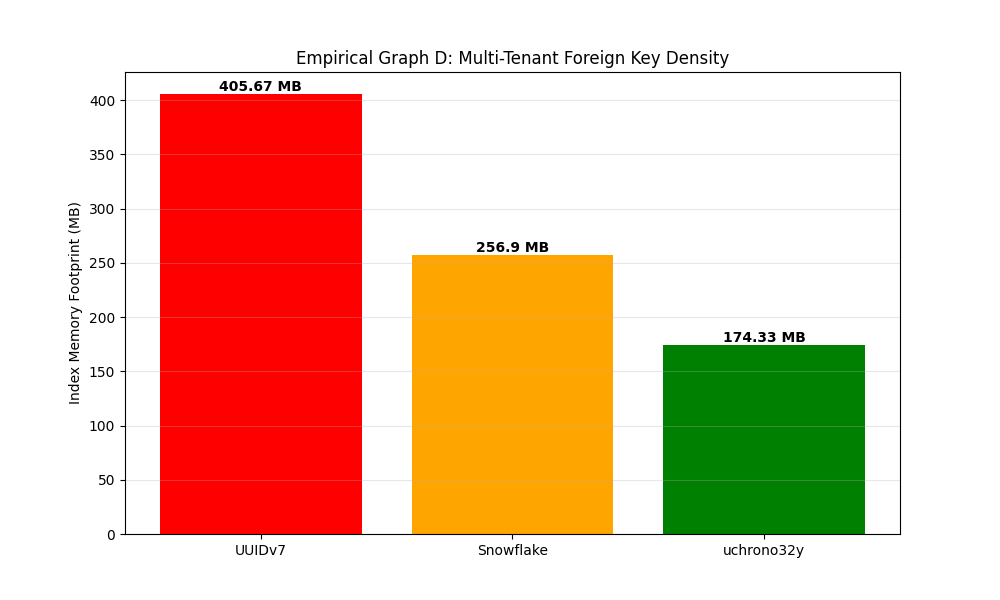
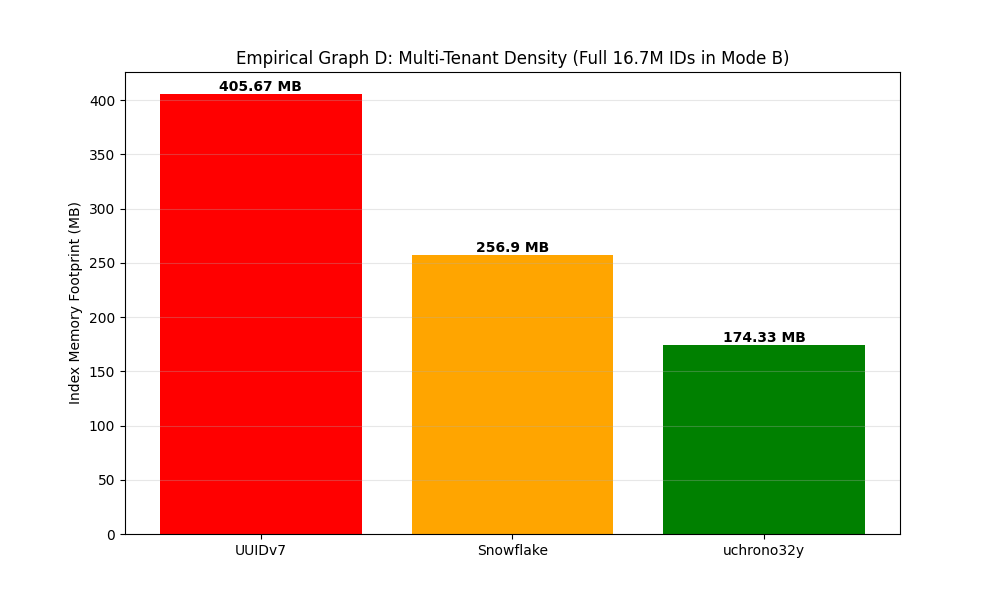
docs: refine visualization naming and axis labeling Refines the empirical verification suite by enhancing plot clarity and synchronizing documentation headers with precise hardware and scale markers. Key accomplishments: - **Refined Axis Labeling**: Updated Graph E (Shard Routing) with explicit scal

Changed region(s): [[0.217, 0.06, 0.806, 0.12]]

diff --git a/simulation/plot_viz.py b/simulation/plot_viz.py
@@ -62,7 +62,7 @@ def plot_storage_tenant():
     plt.figure(figsize=(10, 6))
     bars = plt.bar(df['type'], df['size_mb'], color=['red', 'orange', 'green'])
 
-    plt.title('Empirical Graph D: Multi-Tenant Foreign Key Density')
+    plt.title('Empirical Graph D: Multi-Tenant Density (Full 16.7M IDs in Mode B)')
     plt.ylabel('Index Memory Footprint (MB)')
     plt.grid(axis='y', ls="-", alpha=0.3)
 
@@ -93,6 +93,7 @@ def plot_routing_efficiency():
     plt.title('Empirical Graph E: Shard Routing Execution Cost')
     plt.xlabel('Routing Request Volume (Deterministic Suffix)')
     plt.ylabel('CPU Processing Time (ms) - Log Scale')
+    plt.xticks(x, scales)
     plt.yscale('log')
     plt.legend()
     plt.grid(axis='y', ls="-", alpha=0.3)

diff --git a/proof/proof.md b/proof/proof.md
@@ -705,7 +705,7 @@ _Comparing total index size for 100 Million rows._
 - **ChronoID**: Achieves the absolute physical limit of 64-bit B-Tree density, ~50% smaller than UUID variants.
   ![Graph C: Storage Footprint](../simulation/plots/storage_footprint.png)
 
-#### Graph D: Multi-Tenant Foreign Key Density
+#### Graph D: Multi-Tenant Density (Full 16.7M IDs in Mode B)
 
 _Density for multi-tenant identifiers using 32-bit uchrono32y._
 

diff --git a/simulation/report.md b/simulation/report.md
@@ -106,7 +106,7 @@ Comparing the total index size for 100 Million rows.
 
 ![Storage Footprint Graph (Graph C)](plots/storage_footprint.png)
 
-#### Graph D: Multi-Tenant Foreign Key Density
+#### Graph D: Multi-Tenant Density (Full 16.7M IDs in Mode B)
 
 Comparing total index size for its maximum capacity of **16,777,216 rows** using the 32-bit `uchrono32y` identifier.
 
